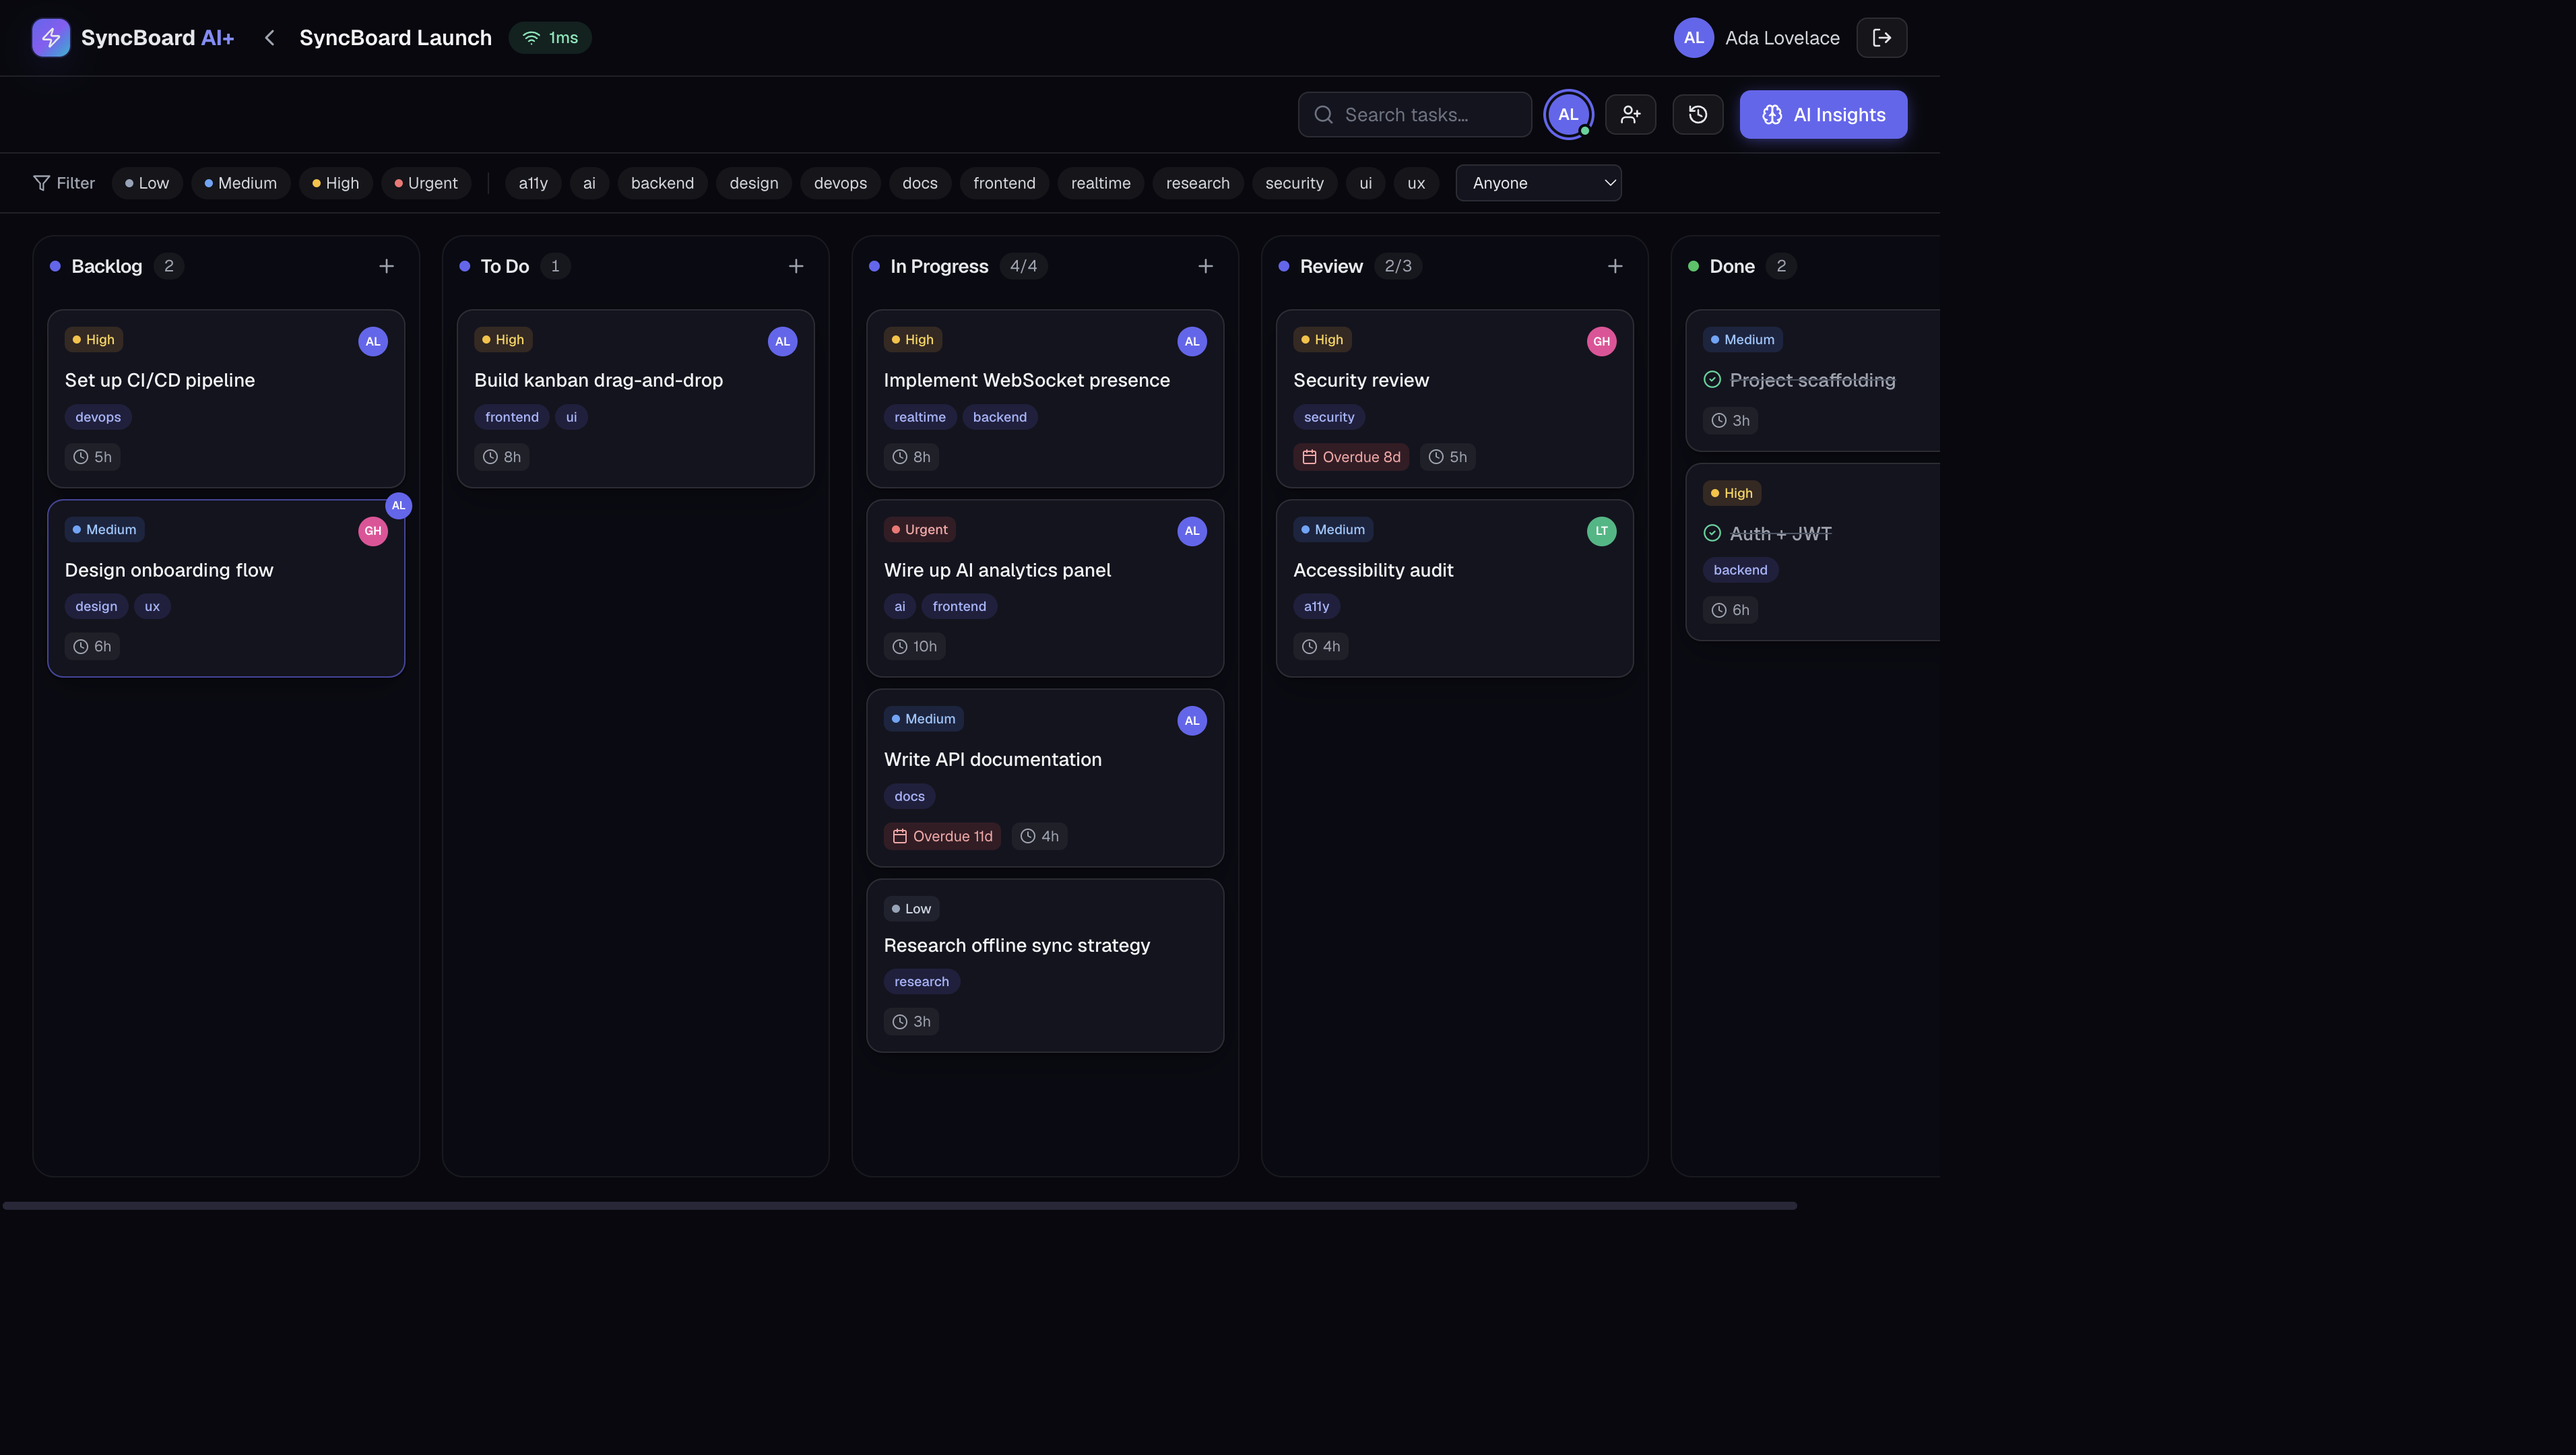
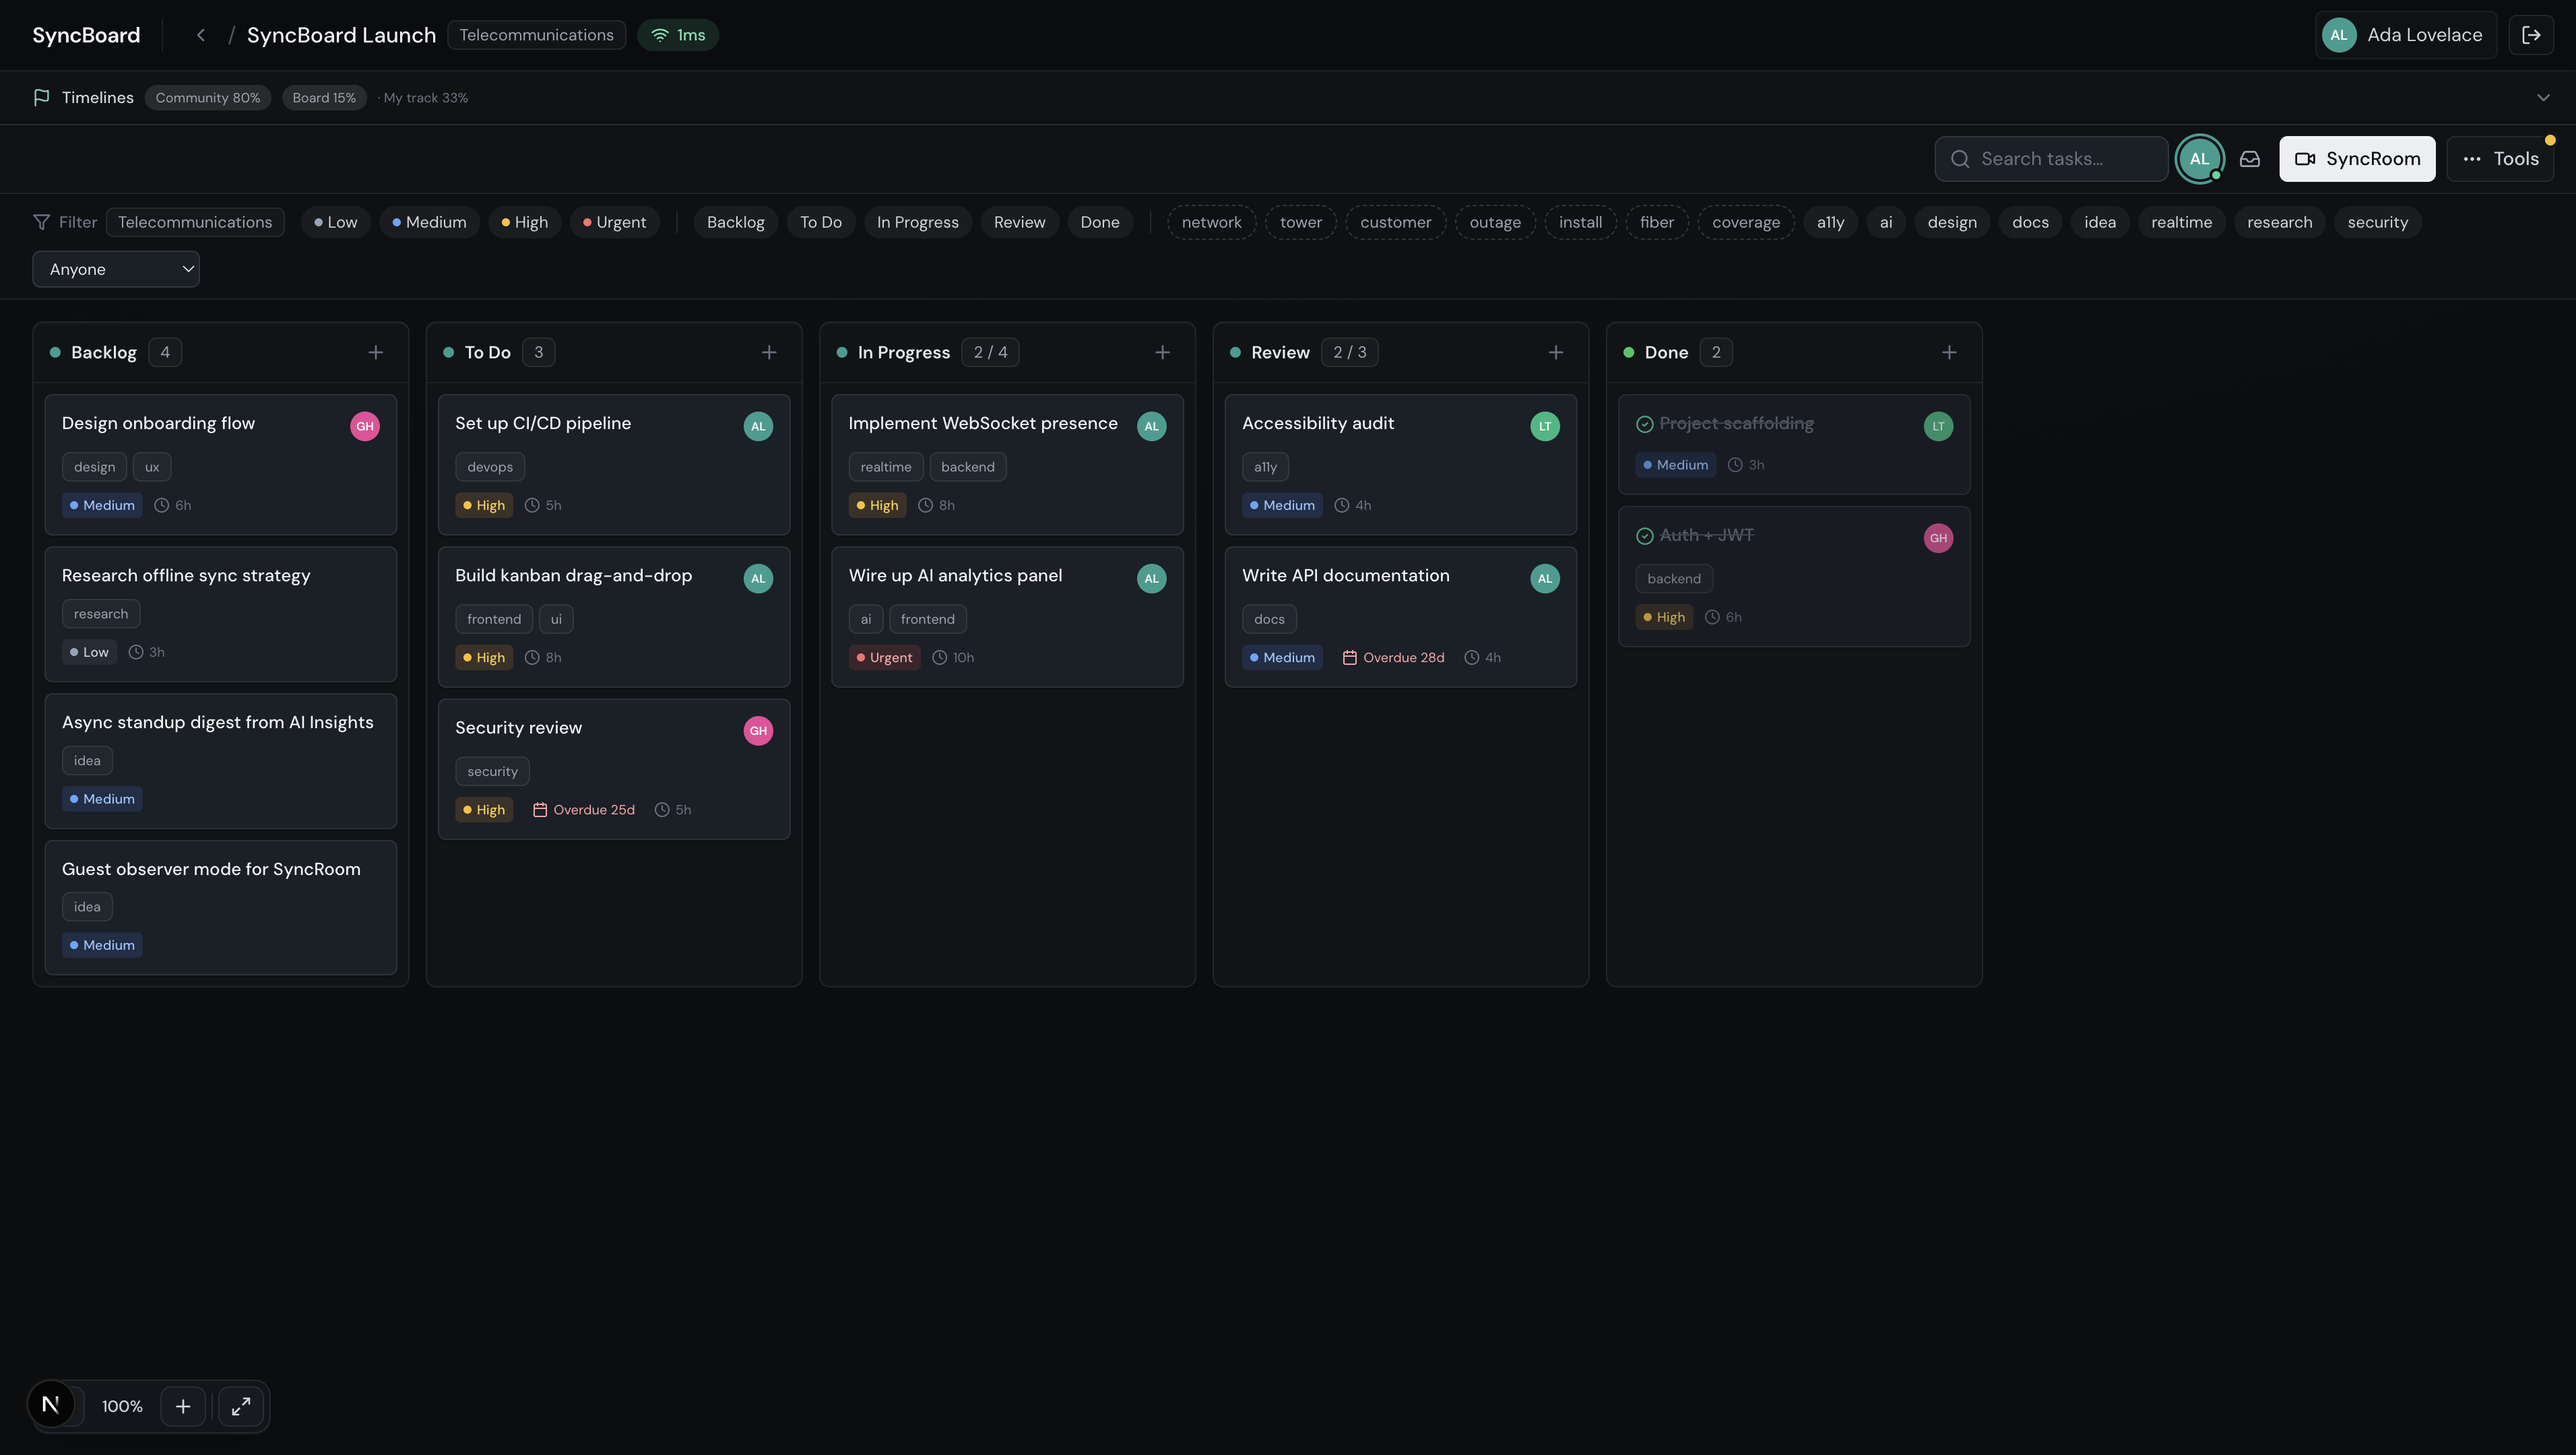
Refresh README screenshots and document full project layout.

diff --git a/README.md b/README.md
@@ -11,20 +11,32 @@ teams coordinated, even in low-connectivity environments.
 
 ## 📸 Screenshots
 
-### Landing
-A modern marketing page with a live board preview, feature highlights, and clear calls to action.
+Screenshots are captured from the current UI. Regenerate after UI changes with
+`node scripts/capture-screenshots.mjs` (requires the dev server on port 3000).
 
-![SyncBoard AI+ landing page](./docs/screenshots/landing.png)
+> **Note:** The full codebase (SyncRoom, review workflow, alignment, landing UI)
+> is on the [`cursor/board-video-meetings`](https://github.com/ranxford/syncboard-ai/tree/cursor/board-video-meetings)
+> branch until merged into `main`.
+
+### Landing
+Marketing page with a live board preview, field tags, and a getting-started guide.
+
+![SyncBoard landing page](./docs/screenshots/landing.png)
+
+### Dashboard
+Project list, assigned tasks, teammate awareness, and live SyncRoom indicators.
+
+![SyncBoard dashboard](./docs/screenshots/dashboard.png)
 
 ### Real-time Kanban board
-Drag-and-drop columns with priorities, labels, estimates, assignees, live presence, and WIP awareness.
+Drag-and-drop columns with priorities, labels, timelines, SyncRoom, and review tools.
 
-![SyncBoard AI+ Kanban board](./docs/screenshots/board.png)
+![SyncBoard Kanban board](./docs/screenshots/board.png)
 
 ### AI Insights
 Workload balancing, rebalancing suggestions, and predictive risk detection — derived live from board state.
 
-![SyncBoard AI+ AI Insights panel](./docs/screenshots/ai-insights.png)
+![SyncBoard AI Insights panel](./docs/screenshots/ai-insights.png)
 
 ---
 
@@ -118,22 +130,27 @@ produce predictions, workload analysis, and meeting summaries.
 ```
 syncboard-ai/
 ├─ apps/
-│  ├─ server/            # Express + Socket.io + Prisma API
-│  │  ├─ prisma/         # schema.prisma + seed
+│  ├─ server/                 # Express + Socket.io + Prisma API
+│  │  ├─ prisma/              # schema.prisma + seed
 │  │  └─ src/
-│  │     ├─ ai/          # heuristic + OpenAI providers (predictions, summaries)
-│  │     ├─ routes/      # auth, projects, tasks, analytics, ai, syncroom, dashboard
-│  │     ├─ realtime/    # socket.io, presence, calls, awareness, teammate notify
-│  │     ├─ lib/         # jwt, access control, board state
+│  │     ├─ ai/               # alignment, codeReview, reviewBrief, heuristic, openai
+│  │     ├─ routes/           # auth, projects, tasks, analytics, ai, alignment,
+│  │     │                    # submissions, reviewSources, syncroom, dashboard, ideas, milestones
+│  │     ├─ realtime/         # socket.io, presence, calls, awareness, teammateNotify
+│  │     ├─ lib/              # access, board, columns, projectFields, reviewStorage,
+│  │     │                    # submissionReadiness, timelines, teammates, codeExtract
 │  │     └─ index.ts
-│  └─ web/               # Next.js app
+│  └─ web/                    # Next.js app
 │     └─ src/
-│        ├─ app/         # landing, login, dashboard, board/[id]
-│        ├─ components/  # KanbanBoard, AIPanel, SyncRoom, PresenceBar, TeammateLiveFeed…
-│        ├─ store/       # zustand auth + board + call stores (optimistic + offline)
-│        └─ lib/         # api client, socket client, offline queue
-├─ docker-compose.yml    # optional Postgres + Redis
-└─ package.json          # npm workspaces + scripts
+│        ├─ app/              # landing, login, signup, dashboard, board/[id]
+│        ├─ components/       # KanbanBoard, AIPanel, CallPanel, ReviewDeliverablesPanel,
+│        │                    # ProjectAlignmentPanel, TeamPanel, landing/, syncroom/, call/
+│        ├─ store/            # auth, board, call (optimistic + offline)
+│        └─ lib/              # api, socket, webrtc, syncRoom, projectFields, types
+├─ docs/                      # ARCHITECTURE, COLLABORATION, DEMO, ROADMAP, screenshots/
+├─ scripts/                   # capture-screenshots.mjs
+├─ docker-compose.yml         # optional Postgres + Redis
+└─ package.json               # npm workspaces + scripts
 ```
 
 ---
@@ -328,6 +345,7 @@ See [docs/ROADMAP.md](./docs/ROADMAP.md) for future work (screen recording in re
 | `npm run db:seed` | Re-seed demo data |
 | `npm run db:studio` | Open Prisma Studio |
 | `npm test` | Run the full server test suite (AI engine + label units + HTTP integration) |
+| `node scripts/capture-screenshots.mjs` | Refresh README screenshots (dev server must be running) |
 
 CI runs install → Prisma generate → lint → build → tests on every push/PR (see
 [`.github/workflows/ci.yml`](./.github/workflows/ci.yml)). The test suite includes
